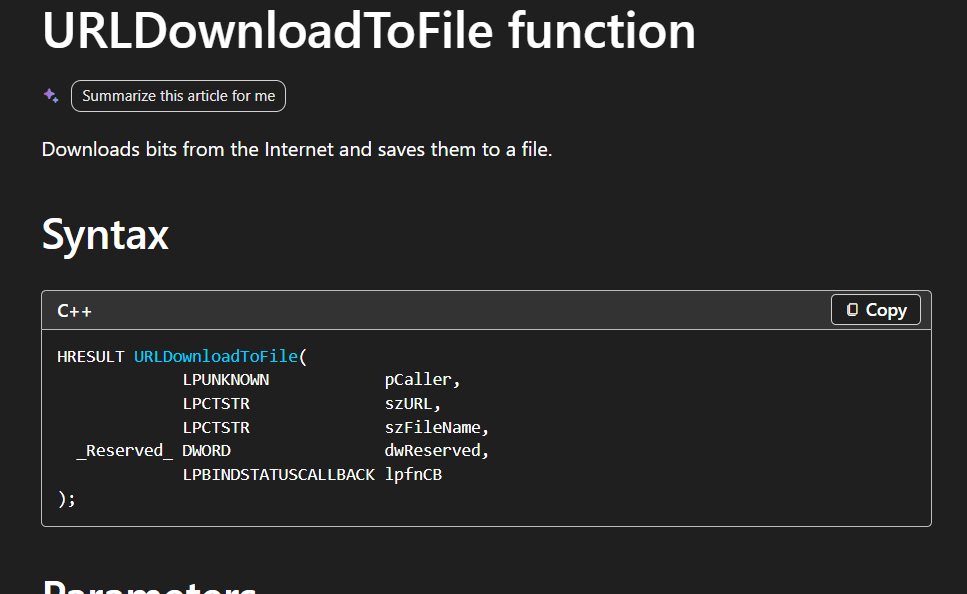
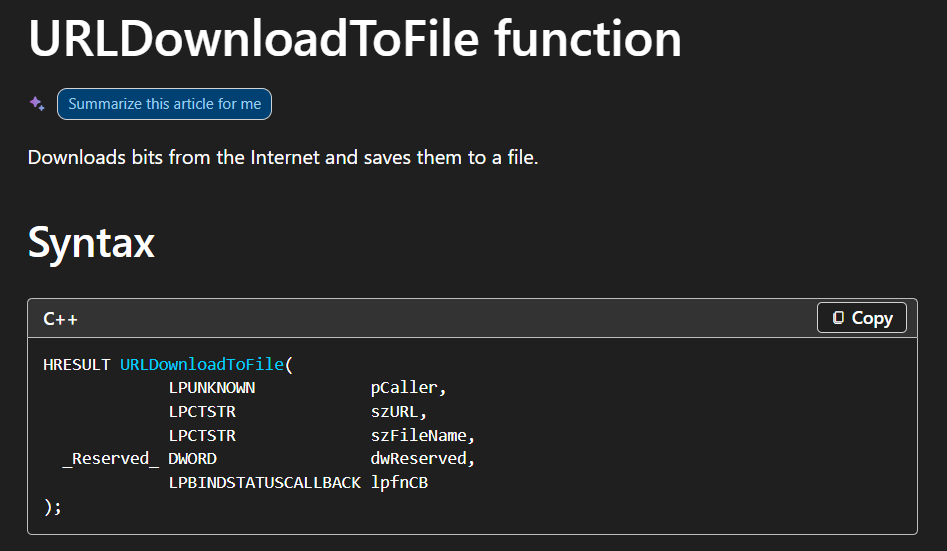
Basic static analysis-error 004 fixed

diff --git a/_posts/2026-03-23-Basic Static Analysis.md b/_posts/2026-03-23-Basic Static Analysis.md
@@ -223,9 +223,7 @@ In malware analysis, Windows APIs matter because malware uses them to interact w
 
 ### Checking the `URLDownloadToFile` API
 
-<!-- ![alt text](/assets/img/TCM/001/image-10.png) -->
-
-<iframe src="https://learn.microsoft.com/en-us/previous-versions/windows/internet-explorer/ie-developer/platform-apis/ms775123(v=vs.85)" width="100%" height="200"></iframe>
+![alt text](/assets/img/TCM/001/image-10.png)
 
 The presence of `URLDownloadToFile` is important because it strongly suggests that this sample can **download a file from the internet onto the system**. That may point to a second-stage payload being dropped or retrieved later.
 
